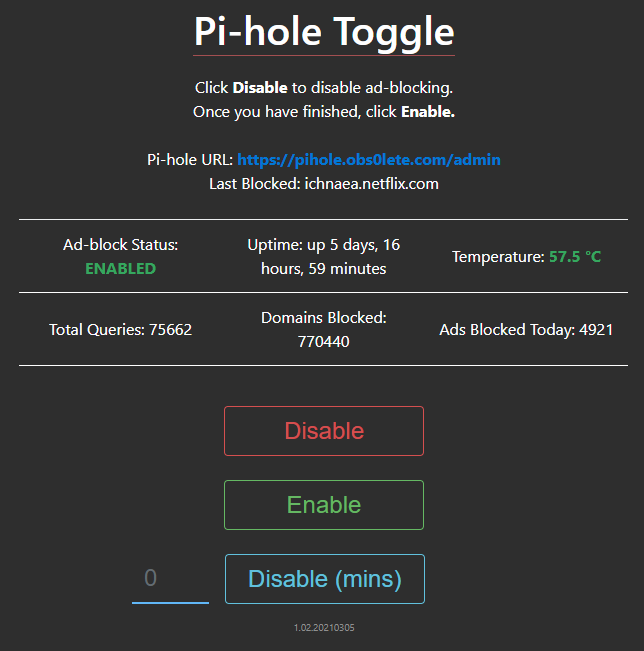
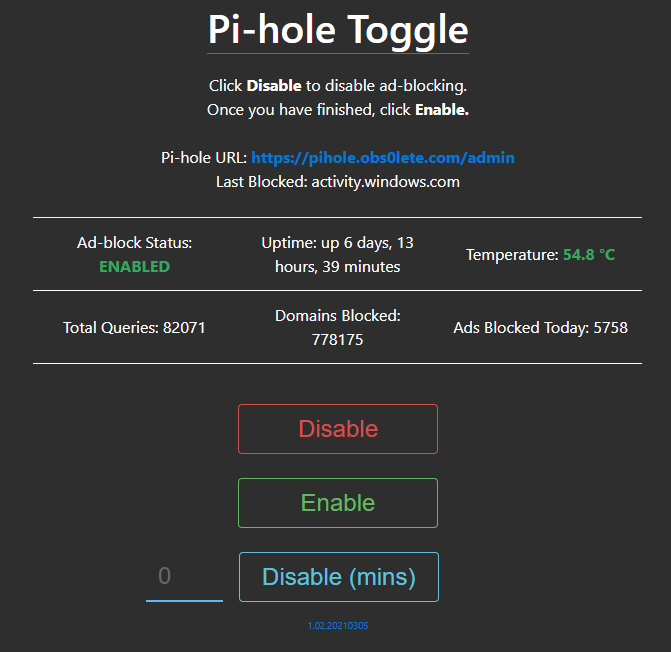
Version now links to GitHub repository

diff --git a/css/style.css b/css/style.css
@@ -3,6 +3,10 @@ body {
   background-color: #2e2e2e;
 }
 
+a:link, a:visited, a:active, a:hover {
+  color: #0275d8;
+}
+
 .h1, h1 {
 border-bottom: 1px solid #a55151;
 display: inline;

diff --git a/index.php b/index.php
@@ -180,7 +180,7 @@
     </form>
     <!-- Version -->
     <div class="version">
-        <?php echo $version;?>
+    <a href="https://github.com/obs0lete/PiholeDashboard"><?php echo $version;?></a>
     </div>
 
     <!-- Scripts -->
